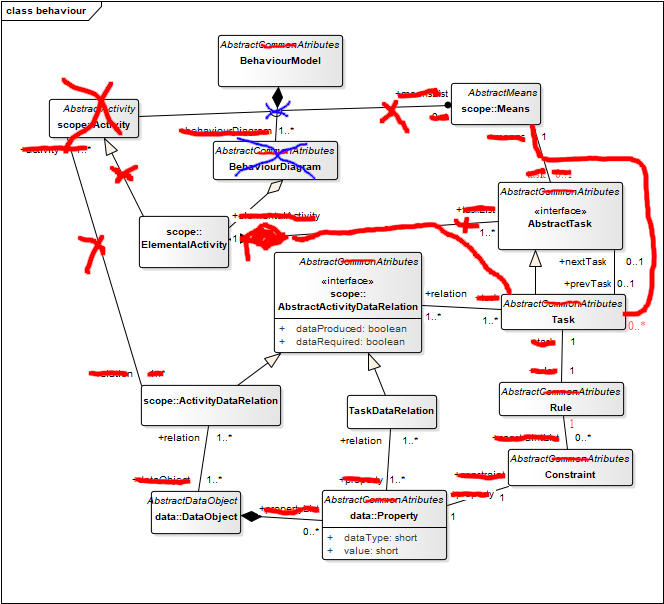
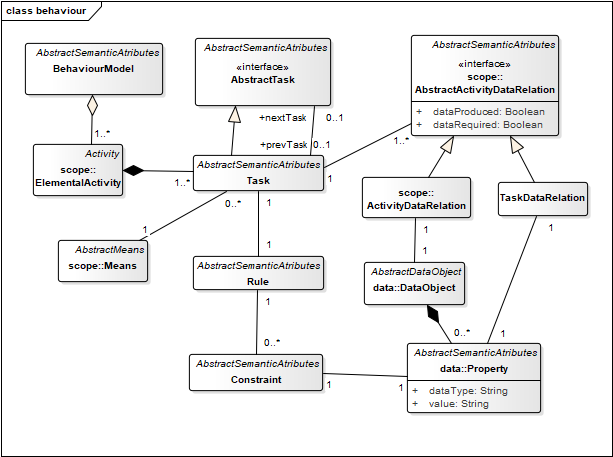
Update figures of Metamodel

Changed region(s): [[0.0, 0.0, 1.0, 1.0], [0.5889, 0.3063, 0.6199, 0.337]]

diff --git a/README.md b/README.md
@@ -118,3 +118,7 @@ Design and extension model for Single Point Incremental Forming - SPIF
 - A Rule can have several Constraint.
 - A Constraint is associated with a Property of a data object.
 
+### Metamodel: overview
+
+![metamodel_behaviour](metamodel/overview.png)
+
